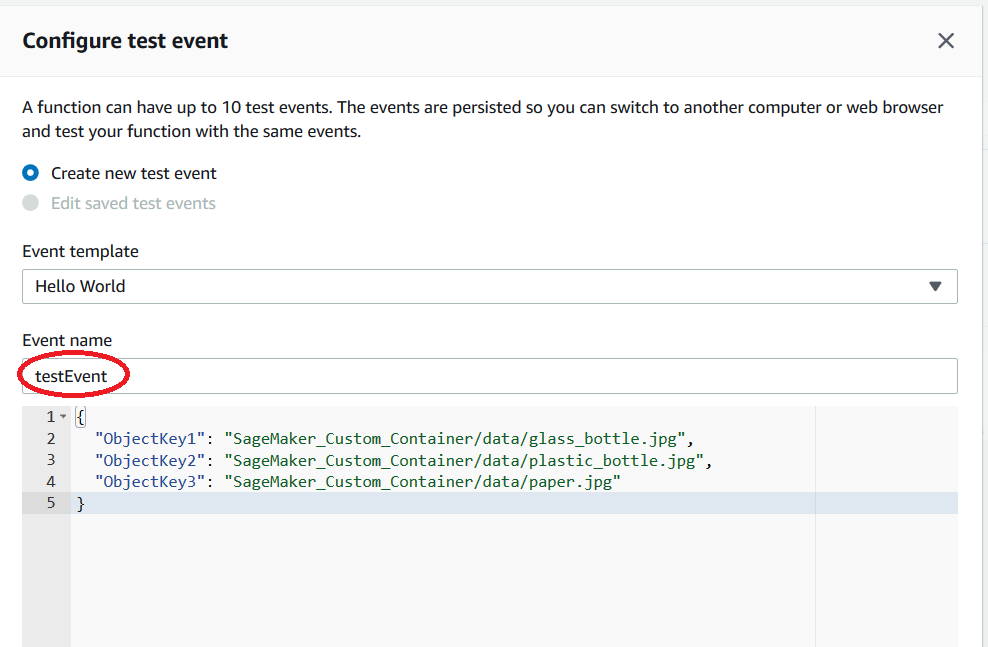
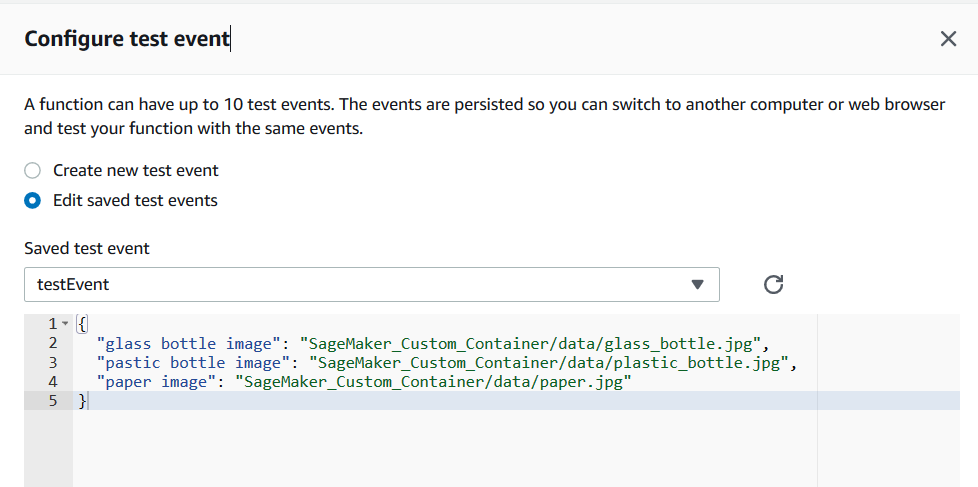
making a change to Dockerfile

diff --git a/lambda_function.py b/lambda_function.py
@@ -3,29 +3,28 @@ import boto3
 import json
 
 # grab environment variables
-ENDPOINT_NAME = os.environ['ENDPOINT_NAME']
+SAGEMAKER_ENDPOINT_NAME = os.environ['SAGEMAKER_ENDPOINT_NAME']
 BUCKET_NAME = os.environ['BUCKET_NAME']
 runtime= boto3.client('runtime.sagemaker')
 s3 = boto3.resource('s3')
 
 def lambda_handler(event, context):
-    
-    OBJECT_KEY = 'SageMaker_Custom_Container/data/glass_bottle.jpg' #plastic_bottle.jpg' #paper.jpg' 
-    file_name = '/tmp/glass_bottle.jpg'
+    OBJECT_KEY = event['paper image'] 
+    file_name = '/tmp/test_image.jpg'
     s3.Bucket(BUCKET_NAME).download_file(OBJECT_KEY, file_name)
-    
+
     payload = ''
 
     with open(file_name, 'rb') as f:
         payload = f.read()
         payload = bytearray(payload)
-    
-    response = runtime.invoke_endpoint(EndpointName=ENDPOINT_NAME,
+
+    response = runtime.invoke_endpoint(EndpointName=SAGEMAKER_ENDPOINT_NAME,
                                        ContentType='application/x-image',
                                        Body=payload)
 
     result = json.loads(response['Body'].read().decode())
     print(result)
     pred = result['predictions']['class']
-    
+
     return pred 

diff --git a/README.md b/README.md
@@ -191,9 +191,9 @@ It will take a few minutes for CloudFormation to complete provisioning of EC2 in
 
     ``` 
     {
-        "ObjectKey1": "SageMaker_Custom_Container/data/glass_bottle.jpg",
-        "ObjectKey2": "SageMaker_Custom_Container/data/plastic_bottle.jpg",
-        "ObjectKey3": "SageMaker_Custom_Container/data/paper.jpg"
+        "glass bottle image": "SageMaker_Custom_Container/data/glass_bottle.jpg",
+        "pastic bottle image": "SageMaker_Custom_Container/data/plastic_bottle.jpg",
+        "paper image": "SageMaker_Custom_Container/data/paper.jpg"
     }
     ``` 
 
